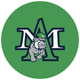
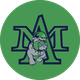
Sharpen the Athletics header Gyrenes mark.
Rebuild the AM circle from the brand sheet instead of a screenshot, and serve 2x/3x so it is not grainy on retina screens.

diff --git a/apps/web-next/src/components/athletics/AthleticsShell.tsx b/apps/web-next/src/components/athletics/AthleticsShell.tsx
@@ -21,6 +21,8 @@ import {
 } from "@/lib/reports/athletics/types";
 import { ATHLETICS_COACHING_NAV, ATHLETICS_MASTER_NAV, ATHLETICS_RECRUITING_NAV } from "@/lib/report-nav";
 import gyreneMark from "@/assets/athletics/gyrene-am-circle.png";
+import gyreneMark2x from "@/assets/athletics/gyrene-am-circle@2x.png";
+import gyreneMark3x from "@/assets/athletics/gyrene-am-circle@3x.png";
 
 const EMPTY_FILTERS: FilterState = {
   sport: [],
@@ -334,6 +336,7 @@ export function AthleticsChrome({ children }: { children: ReactNode }) {
           <img
             className="ath-rc-mark"
             src={gyreneMark.src}
+            srcSet={`${gyreneMark.src} 1x, ${gyreneMark2x.src} 2x, ${gyreneMark3x.src} 3x`}
             alt="Ave Maria University Gyrenes"
             width={40}
             height={40}
